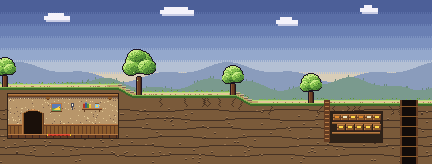
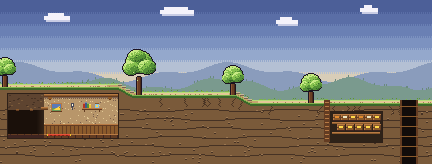
Burrow exit through an end tunnel, clearer backpack
- The burrow's way out was a door in the back wall, so the mouse walked
  in front of its frame. In a side view the exit belongs at the end of
  the room: it is now a tunnel in section at the left end that fades to
  dark, with nothing drawn in front of the mouse's path.
- The pack hung on the footboard is now a real backpack (flap, buckle,
  pocket and straps round the post) in each mouse's own pack colours,
  also when held.
- The bed checks still report zero errors for all three mice.

Changed region(s): [[0.0, 0.5488, 0.2708, 0.8537]]

diff --git a/exploracion/pixel/main2-b1.html b/exploracion/pixel/main2-b1.html
@@ -3473,9 +3473,12 @@ function noPackCanvas(m, dy = 0, blink = false, o = {}) {
     x.putImageData(im, 0, 0); return c;
   });
 }
-// La mochila como objeto: colgada del pie de la cama (la misma que en la escena estática aprobada) o en la mano.
-function packOnPost(g, bx, by, m) { const pk = packOf(m); g.fillStyle = INK; g.fillRect(bx + 1, by + 10, 6, 7); g.fillStyle = pk[1]; g.fillRect(bx + 2, by + 11, 4, 5); g.fillStyle = pk[0]; g.fillRect(bx + 2, by + 11, 4, 1); g.fillStyle = pk[2]; g.fillRect(bx + 2, by + 14, 4, 1); }
-function packHeld(g, x, y, m) { const pk = packOf(m); g.fillStyle = INK; g.fillRect(x, y, 6, 6); g.fillStyle = pk[1]; g.fillRect(x + 1, y + 1, 4, 4); g.fillStyle = pk[0]; g.fillRect(x + 1, y + 1, 4, 1); g.fillStyle = pk[2]; g.fillRect(x + 1, y + 3, 4, 1); }
+// La mochila como objeto, con los colores de mochila de cada ratón (los mismos tres de su sprite oficial): solapa con
+// hebilla, bolsillo delantero y dos correas. Colgada del pie de la cama, las correas abrazan el poste.
+const PACK_ROWS = ['..SS.SS..', '.DMMMMMD.', 'DMLLLLLMD', 'DMMMBMMMD', 'DDDDDDDDD', 'DMMMMMMMD', 'DMLLLLMMD', 'DMLLLLMMD', '.DDDDDDD.'];
+const packSprite = (m) => art('pack' + m.name, () => { const pk = packOf(m), c = PB(11, 11), C = { L: pk[0], M: pk[1], D: pk[2], S: mixc(pk[2], '#000000', 0.25), B: '#f2c02a' }; PACK_ROWS.forEach((r, j) => [...r].forEach((ch, i) => { if (ch !== '.') c.px(i + 1, j + 1, C[ch]); })); c.outline(); return c.canvas(); });
+function packOnPost(g, bx, by, m) { g.drawImage(packSprite(m), bx - 3, by + 7); }
+function packHeld(g, x, y, m) { g.drawImage(packSprite(m), x - 2, y - 2); }
 
 // Guion (ms). El bucle dura 12,2 s; dormir es la parte larga.
 const BT = { walkIn: 1100, hang: 1400, hopUp: 1900, walkBed: 2400, turnL: 2600, turnR: 2800, curl: 3000, blanketUp: 3900, sleep: 7900, wake: 8400, blanketDown: 9300, stand: 9500, walkFoot: 10000, takePack: 10300, hopDown: 10800, walkOut: 11900, end: 12200 };
@@ -3739,15 +3742,27 @@ function roomWall(g, x0, x1) {
   for (let y = ry + 3; y < F - 10; y++) for (let x = x0; x < x1; x++) if (hh2(x, y, 5) < 0.035) R2(x, y, 1, 1, P.pla[2]); else if (hh2(x, y, 6) < 0.015) R2(x, y, 1, 1, P.pla[4]);
   for (let x = x0; x < x1; x++) { R2(x, ry + 3, 1, 1, P.pla[4]); if (x % 2) R2(x, ry + 4, 1, 1, P.pla[4]); }
   R2(x0, ry, x1 - x0, 3, P.woo[2]); R2(x0, ry, x1 - x0, 1, P.woo[1]); R2(x0, ry + 2, x1 - x0, 1, P.woo[3]);
-  for (const x of [ROOM.x + 38, ROOM.x + 100]) if (x >= x0 && x < x1) { R2(x, ry + 3, 4, 2, P.woo[2]); R2(x + 1, ry + 5, 2, 1, P.woo[3]); }
+  for (const x of [ROOM.x + 40, ROOM.x + 100]) if (x >= x0 && x < x1) { R2(x, ry + 3, 4, 2, P.woo[2]); R2(x + 1, ry + 5, 2, 1, P.woo[3]); }
   R2(x0, F - 10, x1 - x0, 10, P.woo[2]); R2(x0, F - 10, x1 - x0, 1, P.woo[1]); R2(x0, F - 9, x1 - x0, 1, P.woo[3]); for (let x = x0 + 2; x < x1; x += 4) R2(x, F - 8, 1, 8, P.woo[3]);
 }
-// Arco de la puerta del túnel (de x+14 a x+35): marco de madera con su clave; inner = pinta también el pasillo oscuro.
-function roomDoor(g, rx, by, F, inner) {
+// Túnel de salida, en corte, en el extremo izquierdo de la madriguera (de x a x+35): tierra encima, el pasillo a oscuras y su
+// suelo de tablas; la viga del dintel marca dónde acaba la habitación. En una vista lateral el ratón sale andando por el
+// extremo de la habitación: nunca pasa por delante de un marco.
+const TUN = 36;
+function roomTunnel(g, rx, ry, by, F) {
   const P = SPL, R2 = (x, y, w, h, c) => { g.fillStyle = c; g.fillRect(x, y, w, h); };
-  if (inner) { R2(rx + 16, by + 1, 18, F - by - 1, '#1a100a'); R2(rx + 18, by, 14, 1, '#1a100a'); R2(rx + 20, by - 1, 10, 1, '#1a100a'); }
-  R2(rx + 14, by + 1, 2, F - by - 1, P.woo[2]); R2(rx + 14, by + 1, 1, F - by - 1, P.woo[1]); R2(rx + 34, by + 1, 2, F - by - 1, P.woo[2]); R2(rx + 35, by + 1, 1, F - by - 1, P.woo[3]);
-  R2(rx + 16, by, 2, 1, P.woo[2]); R2(rx + 32, by, 2, 1, P.woo[2]); R2(rx + 18, by - 1, 2, 1, P.woo[2]); R2(rx + 30, by - 1, 2, 1, P.woo[2]); R2(rx + 20, by - 2, 10, 1, P.woo[1]); R2(rx + 23, by - 3, 4, 2, P.woo[1]); R2(rx + 24, by - 3, 2, 1, P.woo[0]);
+  R2(rx, ry, TUN, by - 2 - ry, P.soi[2]); for (let i = 0; i < 26; i++) { const x = rx + Math.floor(hh2(i, 41) * TUN), y = ry + Math.floor(hh2(i, 42) * (by - 3 - ry)); R2(x, y, 2, 1, i % 3 ? P.soi[3] : P.soi[1]); }
+  R2(rx, by - 2, TUN, F - by + 2, '#1a100a'); for (let x = rx + TUN - 8; x < rx + TUN; x++) R2(x, by - 2, 1, F - by + 2, mixc('#1a100a', '#3a2a1e', (x - rx - TUN + 8) / 10));
+  R2(rx, F, TUN, 1, P.woo[3]); for (let x = rx + 2; x < rx + TUN; x += 7) R2(x, F, 1, 1, P.woo[4]);
+  for (const x of [rx + 8, rx + 22]) { R2(x, by - 3, 3, 2, P.woo[3]); R2(x, by - 3, 3, 1, P.woo[2]); }
+  R2(rx + TUN - 3, by - 5, 7, 3, P.woo[2]); R2(rx + TUN - 3, by - 5, 7, 1, P.woo[1]); R2(rx + TUN - 3, by - 3, 7, 1, P.woo[3]);
+}
+// Delante del ratón, solo dentro del túnel: oscuridad que crece hacia el fondo; al empezar y al acabar el bucle, el túnel
+// entero se oscurece y aclara para que el ratón no aparezca ni desaparezca de golpe.
+function tunnelVeil(g, rx, by, F, t) {
+  const fade = t < 400 ? 1 - t / 400 : t > BT.walkOut - 400 ? Math.min(1, (t - BT.walkOut + 400) / 400) : 0;
+  for (let x = rx; x < rx + TUN; x++) { const a = Math.max(fade, 0.97 - ((x - rx) / TUN) * 0.85); g.globalAlpha = a; g.fillStyle = '#1a100a'; g.fillRect(x, by - 2, 1, F - by + 2); }
+  g.globalAlpha = 1;
 }
 function paintSurface(g) {
   const P = SPL, R2 = (x, y, w, h, c) => { g.fillStyle = c; g.fillRect(x, y, w, h); };
@@ -3769,12 +3784,13 @@ function paintSurface(g) {
   // Madriguera bajo la casa: pared de tierra apisonada con vigas, suelo de tablas y la boca del túnel a la izquierda.
   const { x: rx, y: ry, w: rw, h: rh } = ROOM;
   R2(rx - 1, ry - 1, rw + 2, rh + 2, P.soi[4]);
-  roomWall(g, rx, rx + rw);
+  roomWall(g, rx + TUN, rx + rw);
   const F = BED1.by + 22, bx = BED1.bx, by = BED1.by;
+  roomTunnel(g, rx, ry, by, F);
   // Suelo de tablas y alfombra roja con remates dorados delante de la cama.
-  R2(rx, F, rw, ry + rh - F, P.woo[3]); R2(rx, F, rw, 1, P.woo[1]); for (let x = rx + 3; x < rx + rw; x += 7) R2(x, F + 1, 1, ry + rh - F - 1, P.woo[4]);
+  R2(rx + TUN, F, rw - TUN, ry + rh - F, P.woo[3]); R2(rx + TUN, F, rw - TUN, 1, P.woo[1]); R2(rx, F + 1, TUN, ry + rh - F - 1, P.woo[4]); for (let x = rx + TUN + 3; x < rx + rw; x += 7) R2(x, F + 1, 1, ry + rh - F - 1, P.woo[4]);
   R2(rx + 40, F, 22, 2, P.red[2]); R2(rx + 40, F, 22, 1, P.red[1]); for (let x = rx + 42; x < rx + 60; x += 4) R2(x, F + 1, 2, 1, P.red[3]); R2(rx + 39, F, 1, 2, P.gld[2]); R2(rx + 62, F, 1, 2, P.gld[2]);
-  // Cuadro con una cuña de queso, entre la puerta y la cama.
+  // Cuadro con una cuña de queso, entre el túnel y la cama.
   R2(rx + 43, ry + 9, 11, 9, P.woo[1]); R2(rx + 44, ry + 10, 9, 7, '#5a7ab8'); R2(rx + 44, ry + 14, 9, 3, '#6a9a58'); g.fillStyle = P.chz[1]; g.beginPath(); g.moveTo(rx + 45, ry + 16); g.lineTo(rx + 52, ry + 16); g.lineTo(rx + 52, ry + 12); g.fill(); R2(rx + 51, ry + 13, 1, 1, P.chz[3]); R2(rx + 43, ry + 17, 11, 1, P.woo[3]);
   // Balda con libros y un tarro, encima de la cama.
   R2(bx + 12, by - 4, 20, 1, P.woo[1]); R2(bx + 12, by - 3, 20, 1, P.woo[3]); R2(bx + 14, by - 2, 1, 2, P.woo[3]); R2(bx + 29, by - 2, 1, 2, P.woo[3]);
@@ -3782,8 +3798,6 @@ function paintSurface(g) {
   R2(bx + 25, by - 8, 4, 4, P.gla[2]); R2(bx + 25, by - 9, 4, 1, P.woo[2]); R2(bx + 26, by - 7, 2, 2, P.chz[1]);
   // Aplique de pared (su luz es un VFX: vfxGlow en drawSurface).
   R2(rx + 64, ry + 13, 1, 3, P.irn[3]); R2(rx + 63, ry + 9, 3, 4, P.irn[3]); R2(rx + 64, ry + 10, 1, 2, P.win[0]);
-  // Puerta del túnel: arco de madera con el pasillo a oscuras detrás.
-  roomDoor(g, rx, by, F, true);
   // Bodega bajo la despensa: dos baldas con cajas por color y la escalera.
   const bx0 = SPOS.pantry + 6, by0 = GR1 + 12; R2(bx0 - 1, by0 - 1, 54, 32, P.soi[4]); R2(bx0, by0, 52, 30, '#2e2218');
   for (const sy of [by0 + 10, by0 + 20]) { R2(bx0 + 2, sy, 48, 2, P.woo[2]); R2(bx0 + 2, sy, 48, 1, P.woo[1]); }
@@ -3821,10 +3835,7 @@ function drawSurface(g, now, o = {}) {
   // Madriguera: la cama y su secuencia aprobada; la pared de la izquierda tapa la boca del túnel por delante.
   if (o.sleeper !== null) {
     drawBedFrame(g, now % BT.end, o.sleeper || CREW.town.idle, BED1.bx, BED1.by);
-    // Túnel: el ratón entra y sale por la puerta; el pasillo de detrás está a oscuras (velo casi opaco), la pared de la
-    // izquierda lo tapa del todo y el marco de la puerta queda por delante.
-    const F = BED1.by + 22; g.globalAlpha = 0.9; g.fillStyle = '#1a100a'; g.fillRect(ROOM.x + 16, BED1.by + 1, 18, F - BED1.by - 1); g.globalAlpha = 1;
-    roomWall(g, ROOM.x, ROOM.x + 14); roomDoor(g, ROOM.x, BED1.by, F, false);
+    tunnelVeil(g, ROOM.x, BED1.by, BED1.by + 22, now % BT.end);
     vfxGlow(g, ROOM.x + 64, ROOM.y + 11, 11, now, '#ffd890');
   }
 }
@@ -3899,7 +3910,7 @@ setInterval(() => { const now = performance.now(), g = sc.getContext('2d'); g.se
 requestAnimationFrame(() => { scroller.scrollLeft = 0; });
 UL([
   '<b>De izquierda a derecha:</b> la casa en su colina; el laboratorio en el altozano, con el hueco reservado de FORBIDDEN GENETICS a su izquierda; y el mercado: tienda, despensa y castillete. El pozo del castillete baja por el borde inferior hacia Cheddar: es la unión con el bloque 2.',
-  '<b>Subsuelo:</b> la madriguera bajo la casa, una habitación acogedora (revoco cálido, zócalo de madera, cuadro, balda con libros, aplique con luz y alfombra) con la cama y la secuencia aprobada tal cual; el ratón entra y sale por una puerta en arco hacia un pasillo a oscuras; la bodega bajo la despensa, con las cajas por color de recurso; y el pozo.',
+  '<b>Subsuelo:</b> la madriguera bajo la casa, una habitación acogedora (revoco cálido, zócalo de madera, cuadro, balda con libros, aplique con luz y alfombra) con la cama y la secuencia aprobada tal cual; el ratón entra y sale andando por un túnel en el extremo de la habitación, que se pierde en la oscuridad; la bodega bajo la despensa, con las cajas por color de recurso; y el pozo.',
   '<b>Ratones:</b> el tendero tras el mostrador, el investigador en la puerta del laboratorio con su libro y el ratón sin puesto en la cama. Solo poses aprobadas.',
   '<b>Cada edificio crece sin moverse:</b> la casa conserva su cuerpo en el mismo sitio de la fase I a la III (la torre se añade a la izquierda), y la tienda añade piezas sobre la misma base.',
 ]);

diff --git a/exploracion/pixel/main2-src/b1/b1_surface.js b/exploracion/pixel/main2-src/b1/b1_surface.js
@@ -163,15 +163,27 @@ function roomWall(g, x0, x1) {
   for (let y = ry + 3; y < F - 10; y++) for (let x = x0; x < x1; x++) if (hh2(x, y, 5) < 0.035) R2(x, y, 1, 1, P.pla[2]); else if (hh2(x, y, 6) < 0.015) R2(x, y, 1, 1, P.pla[4]);
   for (let x = x0; x < x1; x++) { R2(x, ry + 3, 1, 1, P.pla[4]); if (x % 2) R2(x, ry + 4, 1, 1, P.pla[4]); }
   R2(x0, ry, x1 - x0, 3, P.woo[2]); R2(x0, ry, x1 - x0, 1, P.woo[1]); R2(x0, ry + 2, x1 - x0, 1, P.woo[3]);
-  for (const x of [ROOM.x + 38, ROOM.x + 100]) if (x >= x0 && x < x1) { R2(x, ry + 3, 4, 2, P.woo[2]); R2(x + 1, ry + 5, 2, 1, P.woo[3]); }
+  for (const x of [ROOM.x + 40, ROOM.x + 100]) if (x >= x0 && x < x1) { R2(x, ry + 3, 4, 2, P.woo[2]); R2(x + 1, ry + 5, 2, 1, P.woo[3]); }
   R2(x0, F - 10, x1 - x0, 10, P.woo[2]); R2(x0, F - 10, x1 - x0, 1, P.woo[1]); R2(x0, F - 9, x1 - x0, 1, P.woo[3]); for (let x = x0 + 2; x < x1; x += 4) R2(x, F - 8, 1, 8, P.woo[3]);
 }
-// Arco de la puerta del túnel (de x+14 a x+35): marco de madera con su clave; inner = pinta también el pasillo oscuro.
-function roomDoor(g, rx, by, F, inner) {
+// Túnel de salida, en corte, en el extremo izquierdo de la madriguera (de x a x+35): tierra encima, el pasillo a oscuras y su
+// suelo de tablas; la viga del dintel marca dónde acaba la habitación. En una vista lateral el ratón sale andando por el
+// extremo de la habitación: nunca pasa por delante de un marco.
+const TUN = 36;
+function roomTunnel(g, rx, ry, by, F) {
   const P = SPL, R2 = (x, y, w, h, c) => { g.fillStyle = c; g.fillRect(x, y, w, h); };
-  if (inner) { R2(rx + 16, by + 1, 18, F - by - 1, '#1a100a'); R2(rx + 18, by, 14, 1, '#1a100a'); R2(rx + 20, by - 1, 10, 1, '#1a100a'); }
-  R2(rx + 14, by + 1, 2, F - by - 1, P.woo[2]); R2(rx + 14, by + 1, 1, F - by - 1, P.woo[1]); R2(rx + 34, by + 1, 2, F - by - 1, P.woo[2]); R2(rx + 35, by + 1, 1, F - by - 1, P.woo[3]);
-  R2(rx + 16, by, 2, 1, P.woo[2]); R2(rx + 32, by, 2, 1, P.woo[2]); R2(rx + 18, by - 1, 2, 1, P.woo[2]); R2(rx + 30, by - 1, 2, 1, P.woo[2]); R2(rx + 20, by - 2, 10, 1, P.woo[1]); R2(rx + 23, by - 3, 4, 2, P.woo[1]); R2(rx + 24, by - 3, 2, 1, P.woo[0]);
+  R2(rx, ry, TUN, by - 2 - ry, P.soi[2]); for (let i = 0; i < 26; i++) { const x = rx + Math.floor(hh2(i, 41) * TUN), y = ry + Math.floor(hh2(i, 42) * (by - 3 - ry)); R2(x, y, 2, 1, i % 3 ? P.soi[3] : P.soi[1]); }
+  R2(rx, by - 2, TUN, F - by + 2, '#1a100a'); for (let x = rx + TUN - 8; x < rx + TUN; x++) R2(x, by - 2, 1, F - by + 2, mixc('#1a100a', '#3a2a1e', (x - rx - TUN + 8) / 10));
+  R2(rx, F, TUN, 1, P.woo[3]); for (let x = rx + 2; x < rx + TUN; x += 7) R2(x, F, 1, 1, P.woo[4]);
+  for (const x of [rx + 8, rx + 22]) { R2(x, by - 3, 3, 2, P.woo[3]); R2(x, by - 3, 3, 1, P.woo[2]); }
+  R2(rx + TUN - 3, by - 5, 7, 3, P.woo[2]); R2(rx + TUN - 3, by - 5, 7, 1, P.woo[1]); R2(rx + TUN - 3, by - 3, 7, 1, P.woo[3]);
+}
+// Delante del ratón, solo dentro del túnel: oscuridad que crece hacia el fondo; al empezar y al acabar el bucle, el túnel
+// entero se oscurece y aclara para que el ratón no aparezca ni desaparezca de golpe.
+function tunnelVeil(g, rx, by, F, t) {
+  const fade = t < 400 ? 1 - t / 400 : t > BT.walkOut - 400 ? Math.min(1, (t - BT.walkOut + 400) / 400) : 0;
+  for (let x = rx; x < rx + TUN; x++) { const a = Math.max(fade, 0.97 - ((x - rx) / TUN) * 0.85); g.globalAlpha = a; g.fillStyle = '#1a100a'; g.fillRect(x, by - 2, 1, F - by + 2); }
+  g.globalAlpha = 1;
 }
 function paintSurface(g) {
   const P = SPL, R2 = (x, y, w, h, c) => { g.fillStyle = c; g.fillRect(x, y, w, h); };
@@ -193,12 +205,13 @@ function paintSurface(g) {
   // Madriguera bajo la casa: pared de tierra apisonada con vigas, suelo de tablas y la boca del túnel a la izquierda.
   const { x: rx, y: ry, w: rw, h: rh } = ROOM;
   R2(rx - 1, ry - 1, rw + 2, rh + 2, P.soi[4]);
-  roomWall(g, rx, rx + rw);
+  roomWall(g, rx + TUN, rx + rw);
   const F = BED1.by + 22, bx = BED1.bx, by = BED1.by;
+  roomTunnel(g, rx, ry, by, F);
   // Suelo de tablas y alfombra roja con remates dorados delante de la cama.
-  R2(rx, F, rw, ry + rh - F, P.woo[3]); R2(rx, F, rw, 1, P.woo[1]); for (let x = rx + 3; x < rx + rw; x += 7) R2(x, F + 1, 1, ry + rh - F - 1, P.woo[4]);
+  R2(rx + TUN, F, rw - TUN, ry + rh - F, P.woo[3]); R2(rx + TUN, F, rw - TUN, 1, P.woo[1]); R2(rx, F + 1, TUN, ry + rh - F - 1, P.woo[4]); for (let x = rx + TUN + 3; x < rx + rw; x += 7) R2(x, F + 1, 1, ry + rh - F - 1, P.woo[4]);
   R2(rx + 40, F, 22, 2, P.red[2]); R2(rx + 40, F, 22, 1, P.red[1]); for (let x = rx + 42; x < rx + 60; x += 4) R2(x, F + 1, 2, 1, P.red[3]); R2(rx + 39, F, 1, 2, P.gld[2]); R2(rx + 62, F, 1, 2, P.gld[2]);
-  // Cuadro con una cuña de queso, entre la puerta y la cama.
+  // Cuadro con una cuña de queso, entre el túnel y la cama.
   R2(rx + 43, ry + 9, 11, 9, P.woo[1]); R2(rx + 44, ry + 10, 9, 7, '#5a7ab8'); R2(rx + 44, ry + 14, 9, 3, '#6a9a58'); g.fillStyle = P.chz[1]; g.beginPath(); g.moveTo(rx + 45, ry + 16); g.lineTo(rx + 52, ry + 16); g.lineTo(rx + 52, ry + 12); g.fill(); R2(rx + 51, ry + 13, 1, 1, P.chz[3]); R2(rx + 43, ry + 17, 11, 1, P.woo[3]);
   // Balda con libros y un tarro, encima de la cama.
   R2(bx + 12, by - 4, 20, 1, P.woo[1]); R2(bx + 12, by - 3, 20, 1, P.woo[3]); R2(bx + 14, by - 2, 1, 2, P.woo[3]); R2(bx + 29, by - 2, 1, 2, P.woo[3]);
@@ -206,8 +219,6 @@ function paintSurface(g) {
   R2(bx + 25, by - 8, 4, 4, P.gla[2]); R2(bx + 25, by - 9, 4, 1, P.woo[2]); R2(bx + 26, by - 7, 2, 2, P.chz[1]);
   // Aplique de pared (su luz es un VFX: vfxGlow en drawSurface).
   R2(rx + 64, ry + 13, 1, 3, P.irn[3]); R2(rx + 63, ry + 9, 3, 4, P.irn[3]); R2(rx + 64, ry + 10, 1, 2, P.win[0]);
-  // Puerta del túnel: arco de madera con el pasillo a oscuras detrás.
-  roomDoor(g, rx, by, F, true);
   // Bodega bajo la despensa: dos baldas con cajas por color y la escalera.
   const bx0 = SPOS.pantry + 6, by0 = GR1 + 12; R2(bx0 - 1, by0 - 1, 54, 32, P.soi[4]); R2(bx0, by0, 52, 30, '#2e2218');
   for (const sy of [by0 + 10, by0 + 20]) { R2(bx0 + 2, sy, 48, 2, P.woo[2]); R2(bx0 + 2, sy, 48, 1, P.woo[1]); }
@@ -245,10 +256,7 @@ function drawSurface(g, now, o = {}) {
   // Madriguera: la cama y su secuencia aprobada; la pared de la izquierda tapa la boca del túnel por delante.
   if (o.sleeper !== null) {
     drawBedFrame(g, now % BT.end, o.sleeper || CREW.town.idle, BED1.bx, BED1.by);
-    // Túnel: el ratón entra y sale por la puerta; el pasillo de detrás está a oscuras (velo casi opaco), la pared de la
-    // izquierda lo tapa del todo y el marco de la puerta queda por delante.
-    const F = BED1.by + 22; g.globalAlpha = 0.9; g.fillStyle = '#1a100a'; g.fillRect(ROOM.x + 16, BED1.by + 1, 18, F - BED1.by - 1); g.globalAlpha = 1;
-    roomWall(g, ROOM.x, ROOM.x + 14); roomDoor(g, ROOM.x, BED1.by, F, false);
+    tunnelVeil(g, ROOM.x, BED1.by, BED1.by + 22, now % BT.end);
     vfxGlow(g, ROOM.x + 64, ROOM.y + 11, 11, now, '#ffd890');
   }
 }

diff --git a/exploracion/pixel/main2-ev4.html b/exploracion/pixel/main2-ev4.html
@@ -3413,9 +3413,12 @@ function noPackCanvas(m, dy = 0, blink = false, o = {}) {
     x.putImageData(im, 0, 0); return c;
   });
 }
-// La mochila como objeto: colgada del pie de la cama (la misma que en la escena estática aprobada) o en la mano.
-function packOnPost(g, bx, by, m) { const pk = packOf(m); g.fillStyle = INK; g.fillRect(bx + 1, by + 10, 6, 7); g.fillStyle = pk[1]; g.fillRect(bx + 2, by + 11, 4, 5); g.fillStyle = pk[0]; g.fillRect(bx + 2, by + 11, 4, 1); g.fillStyle = pk[2]; g.fillRect(bx + 2, by + 14, 4, 1); }
-function packHeld(g, x, y, m) { const pk = packOf(m); g.fillStyle = INK; g.fillRect(x, y, 6, 6); g.fillStyle = pk[1]; g.fillRect(x + 1, y + 1, 4, 4); g.fillStyle = pk[0]; g.fillRect(x + 1, y + 1, 4, 1); g.fillStyle = pk[2]; g.fillRect(x + 1, y + 3, 4, 1); }
+// La mochila como objeto, con los colores de mochila de cada ratón (los mismos tres de su sprite oficial): solapa con
+// hebilla, bolsillo delantero y dos correas. Colgada del pie de la cama, las correas abrazan el poste.
+const PACK_ROWS = ['..SS.SS..', '.DMMMMMD.', 'DMLLLLLMD', 'DMMMBMMMD', 'DDDDDDDDD', 'DMMMMMMMD', 'DMLLLLMMD', 'DMLLLLMMD', '.DDDDDDD.'];
+const packSprite = (m) => art('pack' + m.name, () => { const pk = packOf(m), c = PB(11, 11), C = { L: pk[0], M: pk[1], D: pk[2], S: mixc(pk[2], '#000000', 0.25), B: '#f2c02a' }; PACK_ROWS.forEach((r, j) => [...r].forEach((ch, i) => { if (ch !== '.') c.px(i + 1, j + 1, C[ch]); })); c.outline(); return c.canvas(); });
+function packOnPost(g, bx, by, m) { g.drawImage(packSprite(m), bx - 3, by + 7); }
+function packHeld(g, x, y, m) { g.drawImage(packSprite(m), x - 2, y - 2); }
 
 // Guion (ms). El bucle dura 12,2 s; dormir es la parte larga.
 const BT = { walkIn: 1100, hang: 1400, hopUp: 1900, walkBed: 2400, turnL: 2600, turnR: 2800, curl: 3000, blanketUp: 3900, sleep: 7900, wake: 8400, blanketDown: 9300, stand: 9500, walkFoot: 10000, takePack: 10300, hopDown: 10800, walkOut: 11900, end: 12200 };

diff --git a/exploracion/pixel/main2-src/ev4/ev4_bedanim.js b/exploracion/pixel/main2-src/ev4/ev4_bedanim.js
@@ -21,9 +21,12 @@ function noPackCanvas(m, dy = 0, blink = false, o = {}) {
     x.putImageData(im, 0, 0); return c;
   });
 }
-// La mochila como objeto: colgada del pie de la cama (la misma que en la escena estática aprobada) o en la mano.
-function packOnPost(g, bx, by, m) { const pk = packOf(m); g.fillStyle = INK; g.fillRect(bx + 1, by + 10, 6, 7); g.fillStyle = pk[1]; g.fillRect(bx + 2, by + 11, 4, 5); g.fillStyle = pk[0]; g.fillRect(bx + 2, by + 11, 4, 1); g.fillStyle = pk[2]; g.fillRect(bx + 2, by + 14, 4, 1); }
-function packHeld(g, x, y, m) { const pk = packOf(m); g.fillStyle = INK; g.fillRect(x, y, 6, 6); g.fillStyle = pk[1]; g.fillRect(x + 1, y + 1, 4, 4); g.fillStyle = pk[0]; g.fillRect(x + 1, y + 1, 4, 1); g.fillStyle = pk[2]; g.fillRect(x + 1, y + 3, 4, 1); }
+// La mochila como objeto, con los colores de mochila de cada ratón (los mismos tres de su sprite oficial): solapa con
+// hebilla, bolsillo delantero y dos correas. Colgada del pie de la cama, las correas abrazan el poste.
+const PACK_ROWS = ['..SS.SS..', '.DMMMMMD.', 'DMLLLLLMD', 'DMMMBMMMD', 'DDDDDDDDD', 'DMMMMMMMD', 'DMLLLLMMD', 'DMLLLLMMD', '.DDDDDDD.'];
+const packSprite = (m) => art('pack' + m.name, () => { const pk = packOf(m), c = PB(11, 11), C = { L: pk[0], M: pk[1], D: pk[2], S: mixc(pk[2], '#000000', 0.25), B: '#f2c02a' }; PACK_ROWS.forEach((r, j) => [...r].forEach((ch, i) => { if (ch !== '.') c.px(i + 1, j + 1, C[ch]); })); c.outline(); return c.canvas(); });
+function packOnPost(g, bx, by, m) { g.drawImage(packSprite(m), bx - 3, by + 7); }
+function packHeld(g, x, y, m) { g.drawImage(packSprite(m), x - 2, y - 2); }
 
 // Guion (ms). El bucle dura 12,2 s; dormir es la parte larga.
 const BT = { walkIn: 1100, hang: 1400, hopUp: 1900, walkBed: 2400, turnL: 2600, turnR: 2800, curl: 3000, blanketUp: 3900, sleep: 7900, wake: 8400, blanketDown: 9300, stand: 9500, walkFoot: 10000, takePack: 10300, hopDown: 10800, walkOut: 11900, end: 12200 };

diff --git a/exploracion/pixel/main2-src/b1/b1_page.js b/exploracion/pixel/main2-src/b1/b1_page.js
@@ -54,7 +54,7 @@ setInterval(() => { const now = performance.now(), g = sc.getContext('2d'); g.se
 requestAnimationFrame(() => { scroller.scrollLeft = 0; });
 UL([
   '<b>De izquierda a derecha:</b> la casa en su colina; el laboratorio en el altozano, con el hueco reservado de FORBIDDEN GENETICS a su izquierda; y el mercado: tienda, despensa y castillete. El pozo del castillete baja por el borde inferior hacia Cheddar: es la unión con el bloque 2.',
-  '<b>Subsuelo:</b> la madriguera bajo la casa, una habitación acogedora (revoco cálido, zócalo de madera, cuadro, balda con libros, aplique con luz y alfombra) con la cama y la secuencia aprobada tal cual; el ratón entra y sale por una puerta en arco hacia un pasillo a oscuras; la bodega bajo la despensa, con las cajas por color de recurso; y el pozo.',
+  '<b>Subsuelo:</b> la madriguera bajo la casa, una habitación acogedora (revoco cálido, zócalo de madera, cuadro, balda con libros, aplique con luz y alfombra) con la cama y la secuencia aprobada tal cual; el ratón entra y sale andando por un túnel en el extremo de la habitación, que se pierde en la oscuridad; la bodega bajo la despensa, con las cajas por color de recurso; y el pozo.',
   '<b>Ratones:</b> el tendero tras el mostrador, el investigador en la puerta del laboratorio con su libro y el ratón sin puesto en la cama. Solo poses aprobadas.',
   '<b>Cada edificio crece sin moverse:</b> la casa conserva su cuerpo en el mismo sitio de la fase I a la III (la torre se añade a la izquierda), y la tienda añade piezas sobre la misma base.',
 ]);
